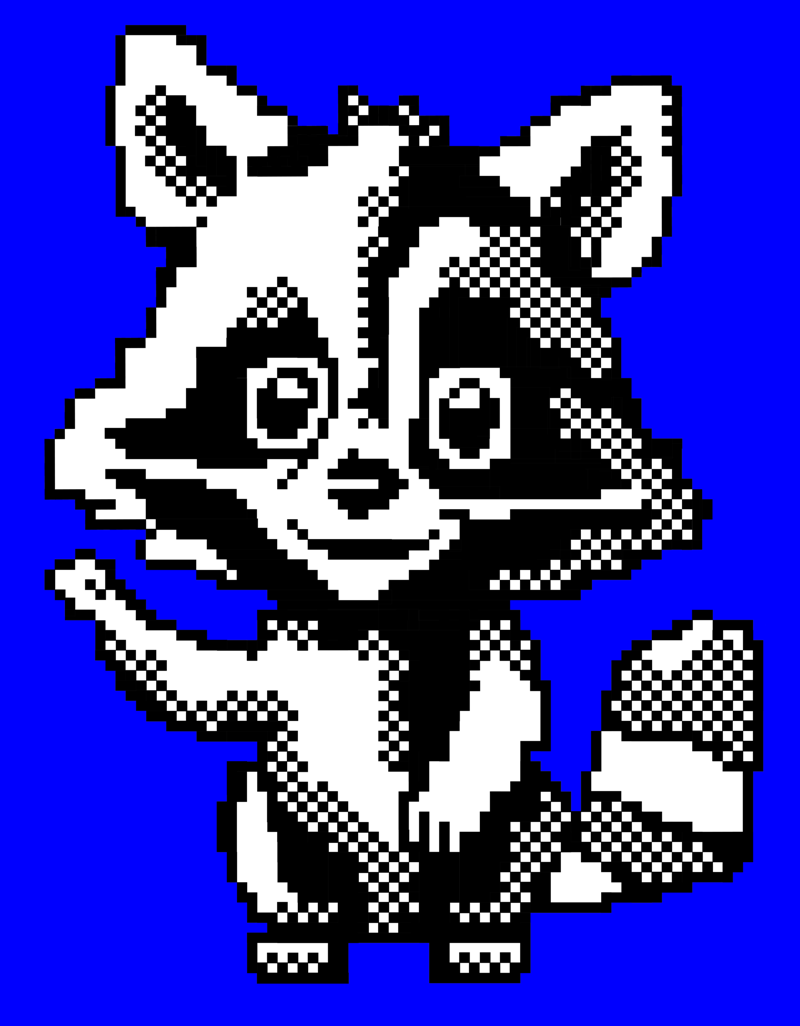
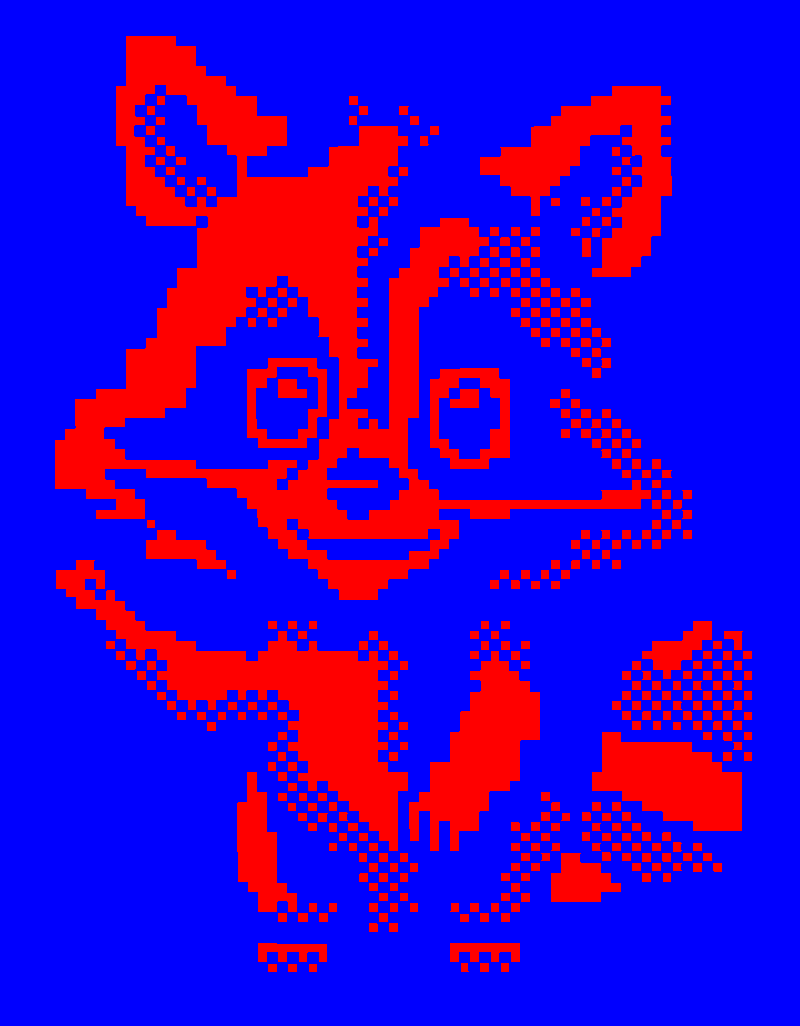
working mascot recolouring

diff --git a/electron/src/renderer/nostro/fortune.jsx b/electron/src/renderer/nostro/fortune.jsx
@@ -24,6 +24,7 @@ class Message {
         }, 100);
         const boxBackgroundColor = signals.boxBackgroundColor();
         const foregroundColor = signals.foregroundColor();
+        // const foregroundColor = "yellow";
 
         // TODO move this management to the top level because it is getting run multiple times
         // We should explicitly manage the canvas lifecycle at an upper level.
@@ -36,7 +37,7 @@ class Message {
             const initialised = canvasRef.getAttribute("data-initialised");
             if (!initialised) {
                 globalCanvas = new fabric.Canvas(canvasRef, {
-                    backgroundColor: foregroundColor,
+                    backgroundColor: boxBackgroundColor,
                 });
             }
             canvasRef.setAttribute("data-initialised", "true");
@@ -49,14 +50,25 @@ class Message {
             }
             // Remove all objects from the canvas
             globalCanvas.clear();
-            globalCanvas.set("backgroundColor", foregroundColor);
+            globalCanvas.set("backgroundColor", boxBackgroundColor);
             console.log("adding canvas image");
             fabric.FabricImage.fromURL(self.mascotPath()).then((img) => {
                 console.log("fromURL start");
                 img.filters.push(replaceColorFilter({
-                    originalColor: 'rgb(0,0,255)',
-                    newColor: boxBackgroundColor,
+                    chromakeys: [{
+                        newColor: foregroundColor,
+                        chromakey: 0,
+                    },
+                    {
+                        newColor: boxBackgroundColor,
+                        chromakey: 2,
+                    },
+                    ]
                 }));
+                // img.filters.push(replaceColorFilter({
+                //     newColor: boxBackgroundColor,
+                //     chromakey: 0,
+                // }));
                 img.applyFilters();
                 // Get canvas dimensions
                 const canvasWidth = globalCanvas.getWidth();
@@ -119,7 +131,7 @@ class Message {
     }
 }
 
-function replaceColorFilter({ newColor }) {
+function replaceColorFilter({ chromakeys}) {
     // Helper function to convert CSS color to RGB
     function cssColorToRgb(color) {
         let r, g, b, a;
@@ -130,45 +142,45 @@ function replaceColorFilter({ newColor }) {
                 r = parseInt(color[1] + color[1], 16);
                 g = parseInt(color[2] + color[2], 16);
                 b = parseInt(color[3] + color[3], 16);
-                a = 1; // Default alpha value
+                a = 255; // Default alpha value
             } else if (color.length === 5) {
                 r = parseInt(color[1] + color[1], 16);
                 g = parseInt(color[2] + color[2], 16);
                 b = parseInt(color[3] + color[3], 16);
-                a = parseInt(color[4] + color[4], 16) / 255;
+                a = parseInt(color[4] + color[4], 16);
             } else if (color.length === 7) {
                 r = parseInt(color[1] + color[2], 16);
                 g = parseInt(color[3] + color[4], 16);
                 b = parseInt(color[5] + color[6], 16);
-                a = 1; // Default alpha value
+                a = 255; // Default alpha value
             } else if (color.length === 9) {
                 r = parseInt(color[1] + color[2], 16);
                 g = parseInt(color[3] + color[4], 16);
                 b = parseInt(color[5] + color[6], 16);
-                a = parseInt(color[7] + color[8], 16) / 255;
+                a = parseInt(color[7] + color[8], 16);
             }
-        } else if (color.startsWith('rgb')) {
-            // Handle rgb and rgba color
-            const rgbValues = color.match(/\d+/g).map(Number);
-            [r, g, b] = rgbValues;
-        } else {
-            throw new Error(`Unsupported color format: ${color}`);
         }
 
         return [r, g, b, a];
     }
 
-    // Convert original and new colors to RGB
-    // const originalRgba = cssColorToRgb(originalColor);
-    const newRgba = cssColorToRgb(newColor);
-
-    // Create a color matrix for the transformation
     const colorMatrix = [
-        newRgba[0] / 255, 0, 0, 0, 0,
-        0, newRgba[1] / 255, 0, 0, 0,
-        0, 0, newRgba[2] / 255, 0, 0,
-        0, 0, newRgba[3], 1, 0
+        0, 0, 0, 0, 0,
+        0, 0, 0, 0, 0,
+        0, 0, 0, 0, 0,
+        0, 0, 0, 0, 0,
     ];
+    chromakeys.forEach(({ newColor, chromakey }) => {
+        const [r, g, b, a] = cssColorToRgb(newColor);
+        if (chromakey >= 0 && chromakey <= 2) {
+            colorMatrix[chromakey] = r / 255;
+            colorMatrix[chromakey + 5] = g / 255;
+            colorMatrix[chromakey + 10] = b / 255;
+            colorMatrix[chromakey + 15] = a / 255;
+        } else {
+            throw new Error(`invalid chromakey value: ${chromakey}`);
+        }
+    });
 
     // Apply the color matrix filter using fabric.js
     return new fabric.filters.ColorMatrix({
